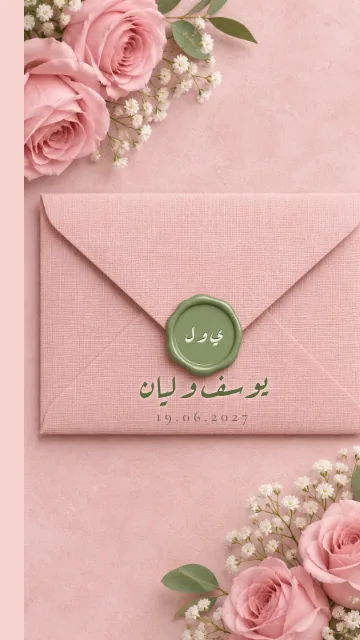
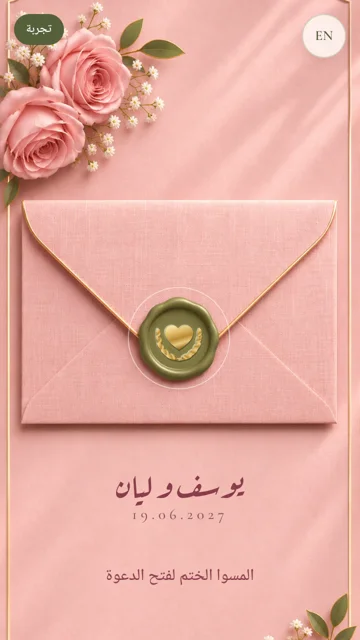
Rose Veil: new pink envelope with gold edge, embossed gold seal emblem
Claude-Session: https://claude.ai/code/session_019MLubjFaYK5fesoVktBenD

diff --git a/rose-veil/index.html b/rose-veil/index.html
@@ -36,10 +36,10 @@ html[lang=en] #lg{font:500 17px var(--ar)}
 /* ---------- 1 · envelope ---------- */
 #gate{position:fixed;inset:0;z-index:50;overflow:hidden;background:#f3cfca;transition:opacity 1.1s ease,visibility 1.1s;cursor:pointer}
 #gate.gone{opacity:0;visibility:hidden;pointer-events:none}
-.stage{position:absolute;left:50%;top:50%;width:max(100vw,calc(100svh*.5628));aspect-ratio:941/1672;transform:translate(-50%,-50%);container-type:inline-size}
+.stage{position:absolute;left:50%;top:50%;width:max(100vw,calc(100svh*.4605));aspect-ratio:851/1848;transform:translate(-50%,-50%);container-type:inline-size}
 .stage>img{position:absolute;inset:0;width:100%;height:100%;display:block;user-select:none;-webkit-user-drag:none}
 .e-open,.e-front{opacity:0;transition:opacity 1.6s ease}
-.e-front{z-index:5;clip-path:polygon(0.00% 20.39%,38.47% 49.80%,38.87% 49.10%,39.41% 48.44%,40.08% 47.81%,40.86% 47.23%,41.76% 46.70%,42.75% 46.22%,43.82% 45.81%,44.97% 45.47%,46.18% 45.20%,47.43% 45.01%,48.72% 44.89%,50.02% 44.86%,51.31% 44.90%,52.60% 45.02%,53.85% 45.23%,55.05% 45.50%,56.19% 45.85%,57.26% 46.27%,58.24% 46.75%,59.12% 47.29%,59.89% 47.88%,60.55% 48.51%,61.07% 49.18%,61.42% 49.88%,100.00% 20.39%,100.00% 100.00%,0.00% 100.00%);-webkit-clip-path:polygon(0.00% 20.39%,38.47% 49.80%,38.87% 49.10%,39.41% 48.44%,40.08% 47.81%,40.86% 47.23%,41.76% 46.70%,42.75% 46.22%,43.82% 45.81%,44.97% 45.47%,46.18% 45.20%,47.43% 45.01%,48.72% 44.89%,50.02% 44.86%,51.31% 44.90%,52.60% 45.02%,53.85% 45.23%,55.05% 45.50%,56.19% 45.85%,57.26% 46.27%,58.24% 46.75%,59.12% 47.29%,59.89% 47.88%,60.55% 48.51%,61.07% 49.18%,61.42% 49.88%,100.00% 20.39%,100.00% 100.00%,0.00% 100.00%)}
+.e-front{z-index:5;clip-path:polygon(5.6% 29.96%,37% 42.05%,62.3% 42.05%,94.2% 29.96%,94.4% 60%,5.4% 60%);-webkit-clip-path:polygon(5.6% 29.96%,37% 42.05%,62.3% 42.05%,94.2% 29.96%,94.4% 60%,5.4% 60%)}
 #gate.s2 .e-open,#gate.s2 .e-front{opacity:1}
 .seal{position:absolute;left:39.5%;top:46%;width:21cqw;height:21cqw;border-radius:50%;display:flex;align-items:center;justify-content:center;z-index:3;transition:opacity .5s ease,transform .6s ease}
 .seal svg{width:80%;height:80%;color:#768c5c;filter:drop-shadow(0 -.25cqw .1cqw rgba(40,55,25,.6)) drop-shadow(0 .3cqw .05cqw rgba(225,235,205,.7))}
@@ -70,6 +70,17 @@ html[lang=ar] .e-card .k{font:500 5.2cqw var(--ruq);letter-spacing:0;text-transf
 html[lang=ar] .e-card .nm{font:400 11cqw/1.5 var(--ruq)}
 .e-card .orn{width:30cqw;color:#7d8857}
 .e-card .dd{font:500 5cqw var(--en);letter-spacing:.2em;color:#7a6a5e;margin-top:2cqw;direction:ltr}
+
+/* Rose Veil v2 envelope geometry */
+.seal{left:38.55%;top:calc(47.2% - 11.15cqw);width:22.3cqw;height:22.3cqw}
+.seal svg{filter:drop-shadow(.18cqw .28cqw .12cqw rgba(30,40,15,.75)) drop-shadow(-.12cqw -.15cqw .05cqw rgba(255,248,220,.55)) drop-shadow(0 0 .5cqw rgba(255,225,150,.25))}
+.g-names{top:62.5%}
+.g-names .nm{color:#8a3d4c;text-shadow:none}
+.g-names .dt{color:#8a5a5e}
+.tap{top:76%;color:#8a3d4c;text-shadow:none}
+.e-card{left:17%;top:15.6%;width:66%}
+#gate.s2 .seal{opacity:0;transform:scale(.9);transition:opacity .7s ease .3s,transform .9s ease}
+#gate.s5{background:#f2c3bc}
 
 /* ---------- scenes (the painted cards) ---------- */
 main{position:relative;max-width:520px;margin:0 auto;padding-bottom:60px}
@@ -233,11 +244,11 @@ footer a{color:var(--ol2)}
 
 <div id="gate" role="button" tabindex="0" aria-label="Open the invitation">
   <div class="stage">
-    <img class="e-closed" src="img/env-closed.webp" alt="" fetchpriority="high">
-    <img class="e-open" src="img/env-open.webp" alt="">
-    <img class="e-front" src="img/env-open.webp" alt="">
-    <div class="seal"><svg viewBox="0 0 100 100" aria-hidden="true"><g fill="none" stroke="currentColor" stroke-width="2.6" stroke-linecap="round">
-<path d="M50 84C28 82 16 66 18 44"/><path d="M50 84C72 82 84 66 82 44"/></g><g fill="currentColor">
+    <img class="e-closed" src="img/env-closed2.webp" alt="" fetchpriority="high">
+    <img class="e-open" src="img/env-open2.webp" alt="">
+    <img class="e-front" src="img/env-open2.webp" alt="">
+    <div class="seal"><svg viewBox="0 0 100 100" aria-hidden="true"><defs><linearGradient id="rvGold" x1="0" y1="0" x2=".35" y2="1"><stop offset="0" stop-color="#fff3c4"/><stop offset=".35" stop-color="#e2bd6a"/><stop offset=".62" stop-color="#b98a35"/><stop offset=".82" stop-color="#e9c97c"/><stop offset="1" stop-color="#9c7029"/></linearGradient></defs><g fill="none" stroke="url(#rvGold)" stroke-width="2.6" stroke-linecap="round">
+<path d="M50 84C28 82 16 66 18 44"/><path d="M50 84C72 82 84 66 82 44"/></g><g fill="url(#rvGold)">
 <ellipse cx="19" cy="52" rx="3.6" ry="8" transform="rotate(-20 19 52)"/><ellipse cx="22" cy="63" rx="3.6" ry="8" transform="rotate(-40 22 63)"/><ellipse cx="29" cy="72" rx="3.6" ry="8" transform="rotate(-60 29 72)"/><ellipse cx="38" cy="79" rx="3.6" ry="8" transform="rotate(-75 38 79)"/><ellipse cx="18" cy="42" rx="3.2" ry="7" transform="rotate(-5 18 42)"/>
 <ellipse cx="81" cy="52" rx="3.6" ry="8" transform="rotate(20 81 52)"/><ellipse cx="78" cy="63" rx="3.6" ry="8" transform="rotate(40 78 63)"/><ellipse cx="71" cy="72" rx="3.6" ry="8" transform="rotate(60 71 72)"/><ellipse cx="62" cy="79" rx="3.6" ry="8" transform="rotate(75 62 79)"/><ellipse cx="82" cy="42" rx="3.2" ry="7" transform="rotate(5 82 42)"/>
 <path transform="translate(50 50) scale(1.15) translate(-50 -50)" d="M50 66C38 58 31 51 31 43c0-6 4.6-10 10-10 4 0 7 2.4 9 5.4 2-3 5-5.4 9-5.4 5.4 0 10 4 10 10 0 8-7 15-19 23z"/></g></svg></div>

diff --git a/index.html b/index.html
@@ -919,7 +919,7 @@ html:not(.js) .why .feat{opacity:1;transform:none}
       </div>
     </article>
     <article class="dc" data-tier="350" style="--i:0">
-      <a class="dc-img" href="rose-veil/index.html" data-track="ViewContent" data-design="Rose Veil" aria-label="جربي دعوة Rose Veil"><img src="cards/rose-veil.webp?v=2" alt="" width="640" height="680" loading="lazy" decoding="async"></a>
+      <a class="dc-img" href="rose-veil/index.html" data-track="ViewContent" data-design="Rose Veil" aria-label="جربي دعوة Rose Veil"><img src="cards/rose-veil.webp?v=3" alt="" width="640" height="680" loading="lazy" decoding="async"></a>
       <div class="dc-b">
         <h3 dir="ltr">Rose Veil</h3>
         <p>ظرف وردي بختم القلب وثريا كريستال</p>
